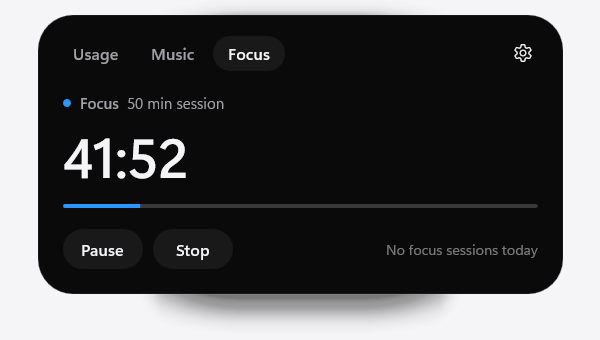
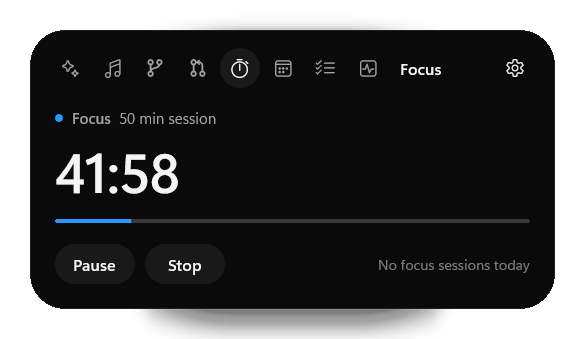
docs: README for modules, notch, shortcut and token metrics; fresh screenshots

diff --git a/README.md b/README.md
@@ -3,82 +3,118 @@
 **The developer status bar Windows never had.**
 
 <p align="center">
-  <img src="docs/assets/expanded-usage.png" alt="Developer Island expanded, showing today's Claude Code and Codex usage and a 26-week usage graph" width="600">
+  <img src="docs/assets/expanded-usage.png" alt="Developer Island expanded, showing today's Claude Code and Codex usage with a token breakdown and a 26-week usage graph" width="560">
 </p>
 
-Developer Island is a small capsule at the top of your screen. It shows your AI coding usage, what's playing and your focus timer. It grows briefly when something happens and opens into a full view when you click it. It is a native Windows app (C#, WinUI 3, Windows App SDK), built to stay out of your way and to run all day without you noticing it.
+Developer Island is a small capsule at the top of your screen. It shows your AI coding usage, your current project's Git state, your next meeting, what's playing and your focus timer. It grows briefly when something happens and opens into a full view when you click it. It is a native Windows app (C#, WinUI 3, Windows App SDK), built to stay out of your way and to run all day without you noticing it.
 
 <p align="center">
-  <img src="docs/assets/compact.png" alt="Compact island: a running focus timer, Claude usage and album art" width="400">
+  <img src="docs/assets/compact.png" alt="Compact island: a running focus timer, the next event, Claude usage and album art" width="440">
   <br>
-  <img src="docs/assets/activity-music.png" alt="Song change shown as a short live activity" width="500">
+  <img src="docs/assets/activity-music.png" alt="Song change shown as a short live activity" width="480">
 </p>
 
 ## Features
 
 - **Three states.**
   - The **compact** capsule shows what matters right now.
-  - A **live activity** (medium state) appears for song changes, focus sessions and AI events, or while you hover.
+  - A **live activity** (medium state) appears for song changes, focus sessions, AI events and upcoming meetings, or while you hover.
   - The **expanded** island opens on click.
 - **Spring motion from the anchor.** The capsule morphs on the GPU compositor and grows away from the edge it rests on. Every animation can be interrupted and respects Windows "Animation effects".
-- **Anywhere you want it.** It sits at Top Center by default. There are five more anchors, or you can drag it anywhere; near an anchor it snaps into place. The selected monitor, anchor and offset are saved. The island falls back to the primary monitor when that display is disconnected.
-- **Out of the way.** The window region follows the active capsule and its shadow margin, leaving the rest of the desktop clickable. Hovering or dragging does not activate the island. The island steps aside while a fullscreen app is on its monitor.
-- **Tray and autostart.** The notification-area menu offers Show, Hide, Start Focus, Settings and Quit. Start with Windows is a native per-user setting, with no scripts.
-- **Keyboard.** Esc closes the island, and focus returns to where you were. Tab and the arrow keys move through the expanded view. Clicking the tray icon opens the island with keyboard focus inside.
-
-### Claude Code
-
-Developer Island reads usage metadata from Claude Code's local transcripts (`~/.claude/projects`, or `CLAUDE_CONFIG_DIR`). It shows:
-
-- today's total tokens, calculated from input, output and cache metadata
-- the sessions today
-- the current model and project
-- an activity indicator based on recent logs and available session metadata
-- the **estimated API equivalent** in euros
-
-Claude Code does not store plan-limit percentages locally, so the island shows tokens rather than guessing a percentage.
-
-### Codex
-
-Developer Island reads Codex rollout files (`~/.codex/sessions`, or `CODEX_HOME`) for:
-
-- today's tokens, sessions, model and project
-- the API equivalent
-- the latest **primary rate-limit usage** recorded locally by Codex (usually a 5-hour window), when available
-
-The island briefly shows an activity when Codex crosses 50, 75 or 90 % of that limit. Models without a known list price are reported as "partly priced" instead of being guessed.
-
-### Usage history
-
-A contribution-style graph covers 26 complete weeks plus the current week, with intensity based on your own quartiles. Hover a day, or move with the arrow keys, to read that day's Claude tokens, Codex tokens and API equivalent. A day's estimate is shown as unavailable if any model could not be priced. Daily totals are kept in a local SQLite database.
+- **Hover that behaves.** A peek opens after a short, deliberate hover (about 280 ms). Hover is judged against the visible capsule, so it never sticks, and a click outside the expanded island closes it without reopening it.
+- **Browser notch.** A top-center island covers the tab strip of a maximized browser. While Chrome, Edge or Firefox is maximized in front, the island retracts into a small notch in the screen edge (48 × 5 px). Hover it for 400 ms or click it to open. You can hide it completely instead, or turn it off per browser.
+- **Anywhere you want it.** It sits at Top Center by default. There are five more anchors, or you can drag it anywhere; near an anchor it snaps into place. The monitor, anchor and offset are saved, and the island falls back to the primary monitor when that display is disconnected.
+- **Out of the way.** The window region follows the capsule, leaving the rest of the desktop clickable. Hovering or dragging does not activate the island. It steps aside while a fullscreen app is on its monitor.
+- **Keyboard.** **Ctrl + Alt + Space** opens or closes the island from anywhere; three other combinations are available if another app already uses it. Esc closes the island, and focus returns to where you were. Tab and the arrow keys move through the expanded view.
+- **Tray and autostart.** The notification-area menu offers Show, Hide, Start Focus, New Task, Settings and Quit. Start with Windows is a native per-user setting, with no scripts.
 
 <p align="center">
-  <img src="docs/assets/expanded-music.png" alt="Expanded music view with artwork, timeline and transport controls" width="480">
-  <img src="docs/assets/expanded-focus.png" alt="Expanded focus view with a running countdown" width="480">
+  <img src="docs/assets/notch.png" alt="The browser notch: a small dark tab in the top screen edge" width="120">
 </p>
+
+## Modules
+
+Nine modules, each of which can be turned off or reordered in Settings. The expanded island shows them as icon tabs, in your order, with the selected module's name beside them. A turned-off module does no work at all: no watchers, timers or processes.
+
+Every module has the same four honest states: working; **empty** (nothing to show yet, with what to do about it); **unavailable** (a prerequisite is missing, such as the GitHub CLI); and **error** (reading failed, with a retry). The rest of the island always keeps working.
+
+### Claude Code and Codex
+
+Developer Island reads usage metadata from Claude Code's local transcripts (`~/.claude/projects`, or `CLAUDE_CONFIG_DIR`) and Codex rollout files (`~/.codex/sessions`, or `CODEX_HOME`).
+
+Tokens are counted the way the providers bill them:
+
+| Metric | Meaning |
+|---|---|
+| **Input** | New, uncached input |
+| **Cache write** | Input written to the prompt cache |
+| **Output** | Generated tokens |
+| **Cache read** | Context re-read from the cache on every turn |
+| **Fresh** | Input + cache write + output: the work of the day |
+| **Processed** | Fresh + cache read: everything the model processed |
+
+The compact island shows **fresh** tokens; the expanded view shows the full breakdown. Cache reads repeat the whole conversation context on every turn, so in long agent sessions they are often 80–90 % of processed tokens; counting them as "usage" made earlier numbers look inflated. The usage graph is shaded by fresh tokens too.
+
+The **estimated API equivalent** in euros prices every category at public list prices, including cache writes (1.25× or 2× input) and cache reads (0.1× input unless listed). If you use a subscription, it is not what you pay. Models without a known list price are reported as "partly priced" instead of being guessed. Codex also shows its latest primary rate-limit usage (usually a 5-hour window), with a live activity at 50, 75 and 90 %.
 
 ### Music
 
-Music works with anything that uses Windows media sessions (System Media Transport Controls), such as Spotify, Apple Music, browsers and Media Player. It needs no app-specific APIs and no accounts. It shows the track, artist, artwork and timeline, with Play and Pause, Previous and Next, and seeking when the player supports it. A song change shows a short live activity, which stays open while you hover it.
+Works with anything that uses Windows media sessions (Spotify, Apple Music, browsers, Media Player and more), with no app-specific APIs and no accounts. It shows the track, artist, artwork and timeline, with Play and Pause, Previous and Next, and seeking when the player supports it. When several players are open, the one that is playing wins. When the player quits, the island clears instead of showing a stale track.
+
+### Git
+
+<p align="center">
+  <img src="docs/assets/expanded-git.png" alt="Git module: repository, branch, uncommitted changes, push state and last commit" width="480">
+</p>
+
+The repository of your latest Claude Code or Codex session, plus any you add in Settings: branch, uncommitted changes (staged, modified, new), commits to push or pull, and the last commit. Up to three other recent repositories are one click away. Developer Island never searches your disk: it only walks up from a session's folder to find its repository. Git runs only when you open the panel or when you commit, check out or fetch.
+
+### GitHub
+
+<p align="center">
+  <img src="docs/assets/expanded-github.png" alt="GitHub module: notifications, open pull requests, review requests and the latest CI run" width="480">
+</p>
+
+Notifications, your open pull requests, review requests, and the active repository's stars, issues and latest CI run. It uses the [GitHub CLI](https://cli.github.com/) and the account you signed in with (`gh auth login`); the app never sees, stores or asks for a token, and all requests are read-only. Without the CLI, the module explains how to connect. The compact island mentions GitHub only when CI fails.
+
+### Calendar
+
+<p align="center">
+  <img src="docs/assets/expanded-calendar.png" alt="Calendar module: the next event and today's agenda" width="480">
+</p>
+
+Your next event and today's agenda. Add a calendar's private iCal link (Google, Outlook and iCloud offer one in their sharing settings) or an `.ics` file. Within the hour, the compact island shows the next event, for example **14:30 · Robotics**, and announces it once. Time zones, all-day events, recurring events (daily, weekly, monthly, yearly, with exceptions) and cancelled or moved occurrences are handled. Calendars are refreshed every 15 minutes. The architecture is provider-based, so account-based calendars can be added later without changing the module.
+
+### Tasks
+
+<p align="center">
+  <img src="docs/assets/expanded-tasks.png" alt="Tasks module: quick capture and a short to-do list" width="480">
+</p>
+
+A small local to-do list. Type and press Enter to add a task; click the circle to complete it. Delete appears on hover; Alt + Up and Down (or the context menu) reorder tasks. **New Task…** in the tray menu opens the island with the cursor in the input.
 
 ### Focus
 
-- Presets of 25, 50 and 90 minutes, plus a custom length.
-- Pause, resume and stop.
+- Presets of 25, 50 and 90 minutes, plus a custom length; pause, resume and stop.
 - A countdown in the capsule while a session runs.
+- A running or paused session survives a restart. A session that ended while the app was closed is recorded as completed.
 - Focus minutes and sessions are stored per day, with today and the last 7 days shown.
 
-### Settings
+### System
+
+CPU, memory and battery. The compact island speaks up only when something needs attention: a battery at 20 % or less that is not charging, or a CPU busy above 85 % for 15 seconds.
+
+## Settings
 
 <p align="center">
-  <img src="docs/assets/settings-position.png" alt="Settings, Position section with monitor picker and anchor picker" width="720">
+  <img src="docs/assets/settings-modules.png" alt="Settings, Modules section with every module, its order and its switch" width="720">
 </p>
 
 | Section | Settings |
 |---|---|
-| General | Start with Windows, always on top, launch hidden |
-| Position | Monitor, anchor, custom position |
-| Modules | Claude Code, Codex, Music and Focus, each on or off |
+| General | Start with Windows, always on top, launch hidden, keyboard shortcut |
+| Position | Monitor, anchor, custom position; browser notch (on or off, notch or hide, per browser) |
+| Modules | Every module on or off and in which order; Git repositories; calendars |
 | Appearance | System or Dark (the island itself is always dark) |
 
 Changes apply immediately.
@@ -87,17 +123,18 @@ Changes apply immediately.
 
 **Local-first. Your prompts never leave your device.**
 
-- Developer Island makes **no network requests**, and it has no accounts, telemetry or cloud sync.
-- It reads local JSONL files that can also contain conversation content, but extracts only usage and session metadata: token counts, model, timestamps, session IDs and working-directory information. It does not retain, display, log or upload prompt, message or code content.
+- No accounts, telemetry or cloud sync. The only network requests are the ones you set up: the calendar links you add, and the GitHub CLI's read-only requests to GitHub when the GitHub module is on and `gh` is signed in.
+- The app reads local JSONL files that can also contain conversation content, but extracts only usage and session metadata: token counts, model, timestamps, session IDs and the working directory. It does not retain, display, log or upload prompt, message or code content.
 - The local database (`%LOCALAPPDATA%\DeveloperIsland\usage.db`) contains token counts, model names, timestamps, session IDs, project folder names, daily totals and focus sessions.
-- Logs (`%LOCALAPPDATA%\DeveloperIsland\logs`) contain app events and error types, never content. They are kept for 7 days.
-- "API equivalent" is an **estimate** at public API list prices, converted to euros. If you use a subscription, it is not what you pay. You can adjust prices and the exchange rate in `%LOCALAPPDATA%\DeveloperIsland\pricing.json`, for example:
+- `settings.json` holds your settings, including repository paths and calendar links; `tasks.json` holds your tasks. Calendar event titles are kept in memory only.
+- Logs (`%LOCALAPPDATA%\DeveloperIsland\logs`) contain app events and error types, never content, repository names, task titles, event titles or calendar links. They are kept for 7 days.
+- The API equivalent uses a static price catalog and exchange rate. You can adjust both in `%LOCALAPPDATA%\DeveloperIsland\pricing.json`, for example:
 
   ```json
   { "usdToEur": 0.86, "models": { "your-model-id": { "input": 2.0, "output": 8.0 } } }
   ```
 
-  These are illustrative values, not a current price quote. Prices are USD per million tokens. The bundled catalog and exchange rate are static; overrides load on startup. Changing prices does not retroactively reprice every stored daily total.
+  These are illustrative values, not a current price quote. Prices are USD per million tokens and load on startup.
 
 ## Installation
 
@@ -105,13 +142,13 @@ Changes apply immediately.
 2. Run it. It installs per user into `%LOCALAPPDATA%\Programs`, and needs no administrator rights, no Visual Studio and no .NET runtime.
 3. Optionally, tick "Start Developer Island when I sign in".
 
-The release script also creates `artifacts/DeveloperIsland-1.0.0-win-x64-portable.zip`. Extract the entire archive and run `DeveloperIsland.exe`.
+The release script also creates a portable zip in `artifacts/`. Extract the entire archive and run `DeveloperIsland.exe`.
 
-Requirements: Windows 11 (recommended) or Windows 10 version 2004 or later, on x64.
+Requirements: Windows 11 (recommended) or Windows 10 version 2004 or later, on x64. The Git module needs [Git for Windows](https://git-scm.com/download/win); the GitHub module needs the [GitHub CLI](https://cli.github.com/).
 
 > The installer is not code-signed yet, so Windows SmartScreen may ask for confirmation on first run.
 
-To see every state without active Claude Code or Codex sessions, start the **Developer Island (Demo)** shortcut, or run `DeveloperIsland.exe --demo`. Demo usage and focus history live in memory, with preferences saved separately in `settings.demo.json`. Demo never writes your real usage history.
+To see every state without active sessions, start the **Developer Island (Demo)** shortcut, or run `DeveloperIsland.exe --demo`. Demo data lives in memory, with preferences saved separately in `settings.demo.json`. Demo never touches your real history, tasks or repositories, and demo data never appears in normal mode.
 
 ## Using it
 
@@ -119,10 +156,11 @@ To see every state without active Claude Code or Codex sessions, start the **Dev
 |---|---|
 | Hover the capsule | A peek at the most relevant live information |
 | Click | Opens the expanded island |
+| Ctrl + Alt + Space | Opens or closes the island from anywhere |
 | Esc, or click elsewhere | Closes the expanded island |
 | Drag | Moves the island; it snaps to the nearest anchor when close |
 | Tray icon | Opens the island with keyboard focus; right-click for the menu |
-| `--settings=position` | On a fresh launch, opens Settings at a section (`general`, `position`, `modules`, `appearance`, `about`) |
+| `--settings=modules` | On a fresh launch, opens Settings at a section (`general`, `position`, `modules`, `appearance`, `about`) |
 
 ## Development
 
@@ -130,8 +168,12 @@ Prerequisites: the [.NET 10 SDK](https://dotnet.microsoft.com/download). Visual 
 
 ```powershell
 dotnet build src/DeveloperIsland -c Debug                      # build the app
-dotnet test tests/DeveloperIsland.Tests                         # 132 tests
+dotnet test tests/DeveloperIsland.Tests                         # 241 tests
 src/DeveloperIsland/bin/x64/Debug/net10.0-windows10.0.22621.0/win-x64/DeveloperIsland.exe --demo
+
+# Render every state (compact, peek, each module, notch, empty and error states, Settings)
+# to PNG files offscreen, without touching the desktop:
+...\DeveloperIsland.exe --demo --snapshot=C:\temp\island-shots
 
 powershell -ExecutionPolicy Bypass -File tools/build-release.ps1  # tests, publish, zip, installer
 ```
@@ -140,17 +182,15 @@ The release script needs [Inno Setup 6](https://jrsoftware.org/isinfo.php) (`win
 
 The tests cover:
 
-- usage aggregation and de-duplication
+- token accounting (fresh versus processed, cache categories, local-day boundaries and daylight saving)
+- usage aggregation, de-duplication, cost calculation and incremental daily totals
 - malformed log records, persisted Codex limits, cursor upgrades and limit expiry
-- cost calculation
-- daily statistics, and incremental totals against a full recompute
-- the focus timer
-- settings persistence and corrupt-file recovery
-- monitor placement and fallback
-- provider error isolation
-- SQLite persistence and migrations
-- the island state machine
-- display formatting
+- the island state machine, hover tracking and the browser-notch policy
+- the focus timer, including restore after restart
+- media session choice and track changes
+- Git status parsing and a real repository end to end; GitHub CLI output; ICS parsing and recurrence; tasks; system alerts
+- module order and settings persistence, including corrupt-file recovery
+- monitor placement, provider error isolation, SQLite persistence and display formatting
 
 ### Design
 
@@ -160,44 +200,40 @@ The UI follows three design sources, in this order:
 2. The [Taste Skill](https://github.com/Leonxlnx/taste-skill) (`design-taste-frontend`).
 3. The [Vercel Web Interface Guidelines](https://github.com/vercel-labs/web-interface-guidelines).
 
-They are merged into [`docs/design/DESIGN-PRINCIPLES.md`](docs/design/DESIGN-PRINCIPLES.md). The current review and remaining checks are recorded in [`docs/design/DESIGN-AUDIT.md`](docs/design/DESIGN-AUDIT.md). Screenshots above use demo data.
+They are merged into [`docs/design/DESIGN-PRINCIPLES.md`](docs/design/DESIGN-PRINCIPLES.md). The reviews are recorded in [`docs/design/DESIGN-AUDIT.md`](docs/design/DESIGN-AUDIT.md). Screenshots use demo data.
 
 ## Architecture
 
 ```
 src/
   DeveloperIsland.Core/     platform-independent logic, covered by unit tests
-    Providers/              Claude Code and Codex log providers, ProviderHost (error isolation)
-    Usage/                  parsers, aggregation, incremental daily totals, history
-    Pricing/                ModelPricingService (API equivalent, pricing.json overrides)
-    Storage/                SQLite: usage events, daily usage, focus sessions, file cursors (migrations)
-    Focus/  Island/         focus timer and history, island state machine
-    Placement/  Settings/   monitor and anchor math, JSON settings
-    Demo/                   in-memory demo data
+    Providers/  Usage/      Claude Code and Codex providers, parsers, aggregation, history
+    Pricing/  Storage/      API equivalent; SQLite (events, daily totals, focus, cursors)
+    Modules/                module ids, states and order
+    Git/  GitHub/           git status via the git CLI; read-only GitHub via the gh CLI
+    Calendar/  Tasks/       ICS parsing and calendar sources; the task list
+    SystemInfo/  Focus/     system alerts and sampling; focus timer, history and restore
+    Island/  Placement/     state machine, hover tracking, notch policy; monitor math
+    Settings/  Demo/        JSON settings; demo data
   DeveloperIsland/          WinUI 3 app
-    App/                    composition root (AppHost), entry point, single instance
-    ViewModels/             snapshots turned into display state (the UI never parses files)
-    UI/                     island window, compact, activity and expanded views, settings, motion
-    Platform/               windowing, tray, autostart, media sessions, monitors, fullscreen detection
+    App/                    composition root (AppHost, ModuleHost), entry point, single instance
+    ViewModels/             one view model per module (the UI never parses anything)
+    UI/                     island window, compact and activity views, one panel per module, settings
+    Platform/               windowing, notch foreground tracking, hotkey, tray, media, system metrics
 tests/DeveloperIsland.Tests
 installer/                  Inno Setup script
-tools/                      release build, asset generators, visual test helpers
+tools/                      release build, asset generators
 ```
 
-Data flows one way: **Provider, then snapshot/model, then ViewModel, then UI.** Providers are event-driven (FileSystemWatcher plus per-file read cursors, with no polling). A provider that fails is reported as unavailable, and the rest of the island keeps working. See [`docs/ARCHITECTURE.md`](docs/ARCHITECTURE.md) and [`docs/PERFORMANCE.md`](docs/PERFORMANCE.md).
-
-For verification results and V1 limitations, see [`docs/STATUS.md`](docs/STATUS.md). Running focus timers do not resume after quitting; one placement is saved, rather than a separate layout for each display. ARM64, Windows 10 and clean-machine installation still require independent validation.
+Data flows one way: **Provider, then State, then ViewModel, then View.** Providers are event-driven (file-system watchers, media-session and WinEvent callbacks). The few timers that exist (system sampling, calendar and GitHub refresh) run only while their module is on. A provider that fails is reported in its own panel, and the rest of the island keeps working. See [`docs/ARCHITECTURE.md`](docs/ARCHITECTURE.md), [`docs/PERFORMANCE.md`](docs/PERFORMANCE.md) and [`docs/STATUS.md`](docs/STATUS.md).
 
 ## Roadmap
 
-V1 deliberately covers Claude Code, Codex, Music and Focus. Ideas for later versions:
-
 - Code-signed installer, a winget package and in-app update notifications
+- Account-based calendars (Outlook, Google) through the calendar provider interface
 - More AI tools through the provider interface (Gemini CLI, GitHub Copilot usage)
 - Opt-in plan-limit percentages for Claude Code, if they become available locally
-- A focus history graph, focus sounds and do-not-disturb integration
-- Build, CI and GitHub notifications as live activities
-- ARM64 release builds
+- A separate layout per display, and ARM64 release builds
 
 ## Acknowledgements
 
@@ -207,4 +243,4 @@ Design principles:
 - [Taste Skill](https://github.com/Leonxlnx/taste-skill)
 - [Vercel Web Interface Guidelines](https://github.com/vercel-labs/web-interface-guidelines)
 
-Icons are Segoe Fluent Icons. Built with the Windows App SDK and WinUI 3.
+Icons are Segoe Fluent Icons, plus drawn Git and pull-request marks. Claude and Codex are shown with simple generic marks, not their logos. Built with the Windows App SDK and WinUI 3.
